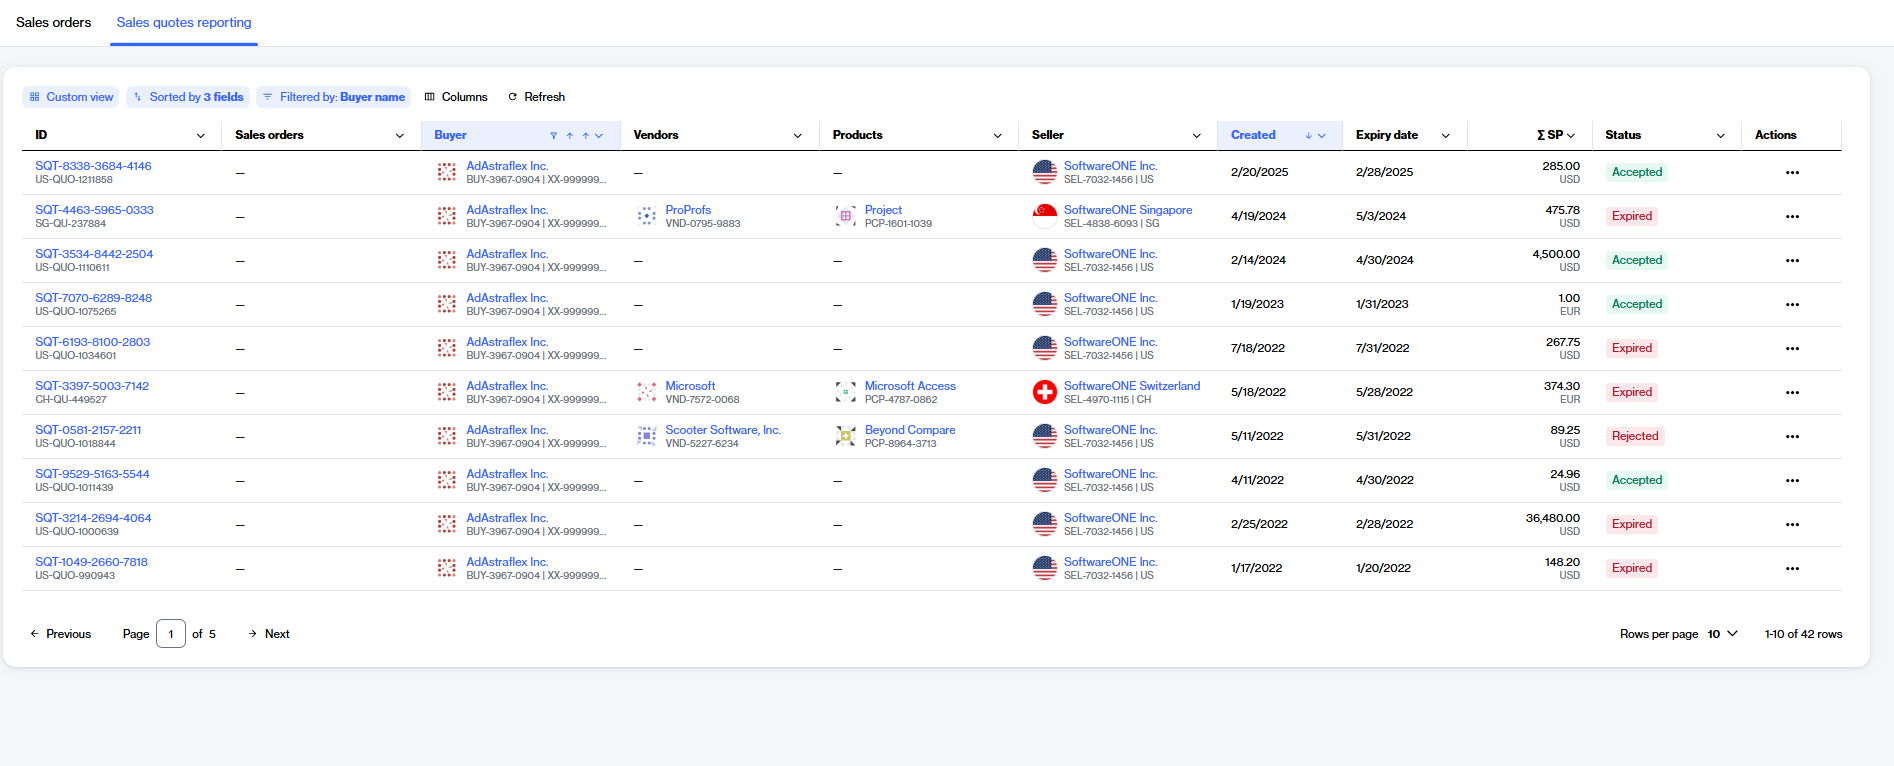
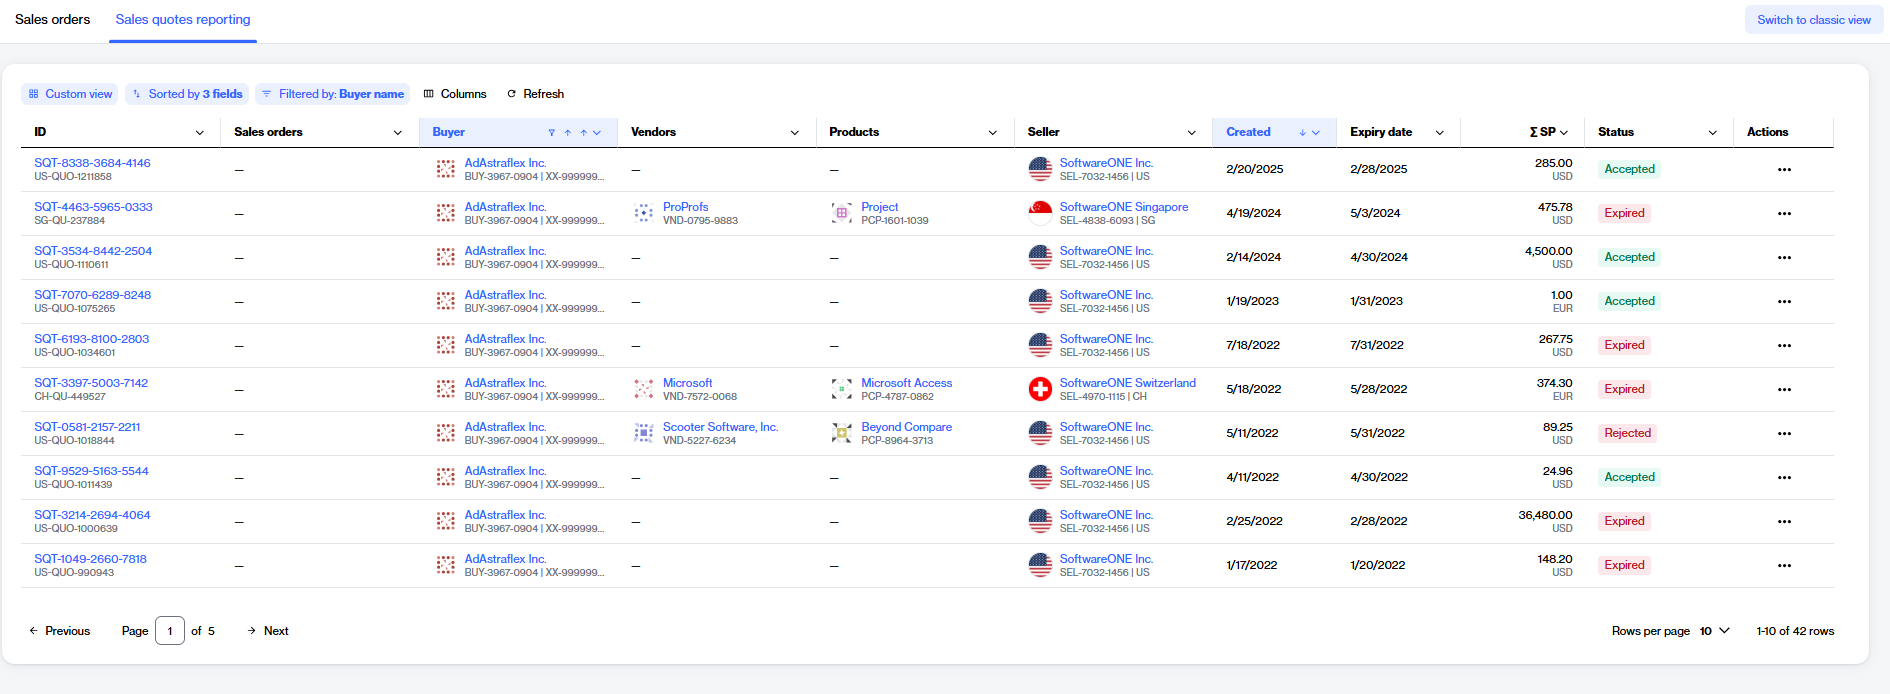
GITBOOK-383: No subject

diff --git a/modules-and-features/billing/analytics/README.md b/modules-and-features/billing/analytics/README.md
@@ -2,50 +2,36 @@
 
 The **Analytics** page in the SoftwareOne Marketplace provides detailed insights into your billing data. It pulls the actual charges from your issued invoices to help you monitor spending, forecast budgets, and proactively manage your expenditure.
 
-Analytics uses interactive charts and tables to help you understand your billed charges:
-
-* The **Analytics chart** section provides a visual and tabular view of the billing data.&#x20;
-* The **Analytics dashboard** section helps you download your data.
-
-Analytics also supports filtering and grouping options, allowing you to focus on the most relevant billed charges. You can select specific date ranges and adjust the date granularity as needed. Additionally, you can group data using predefined categories and use filters to drill down even further.&#x20;
-
-All amounts are displayed in your billing currency by default. You can use the **Currency** filter to view the amount in different currencies, depending on your preferences.
+Analytics uses interactive charts and tables to help you understand your billed charges. It supports filtering and grouping options, allowing you to focus on the most relevant billed charges. You can select a specific time period, group data using predefined categories, and use filters to drill down and focus on the most relevant information.&#x20;
 
 ### Accessing billing analytics
 
-To view your billing data, go to **Billing** > **Analytics**.&#x20;
+To navigate to the **Analytics** page, select the main menu, then choose **Billing** > **Analytics**.&#x20;
 
-<div data-with-frame="true"><figure><img src="../../../.gitbook/assets/analytics (1).png" alt=""><figcaption><p>The Analytics page within SoftwareOne Marketplace.</p></figcaption></figure></div>
+<div data-with-frame="true"><figure><img src="../../../.gitbook/assets/Analytics.png" alt=""><figcaption><p>The Analytics page within SoftwareOne Marketplace.</p></figcaption></figure></div>
 
-When you open the **Analytics** page, your billing data for the last three months is displayed. This data is pulled from your invoices and credit memos.
+The **Analytics** page contains the following areas:
 
-You can select filters in the sidebar to customize your view. Additionally, you can:&#x20;
-
-* Analyze and compare your billing spending across various dimensions, such as buyers, clients, products, vendors, and more.
-* Save your view, including filters and grouping options for easy access later.
-* Select a date range and define the level of granularity (daily, monthly, or yearly).
-* Select a currency other than your billing currency for financial reporting.
-* Export data in supported formats for offline analysis and sharing.
+* **Filters sidebar** - The sidebar allows you to customize your view by selecting a time period and granularity (daily, monthly, or yearly). You can group data across various dimensions, such as **Agreement**, **Document type**, **Entitlement**, **Product**, and more, and narrow your results by selecting filters, operators, and currency. For details, see [Customize analytics with filters](customize-analytics-with-filters.md).
+* **Analytics dashboard** - This section contains the **Export** option, which you can use to download the data in Excel format. For details, see [Export billing data](export-billing-data.md).
+* **Analytics chart** - The chart area shows a visual representation of your billing data over time. It provides a visual breakdown of your billing data based on your selected filters and grouping. When you apply a **Group by** category (such as **Vendor** or **Product**), the chart automatically displays the top 10 entities with the highest billed amounts for that category. Any remaining entities outside of the top 10 are aggregated and displayed together as a single Others category, for example, "Others / Unmatched vendor profiles".
+* **Analytics table** - The table displays your billing data in a structured format. The columns in the table update dynamically based on your chosen date granularity (for example, showing columns for 2023, 2024, 2025) and a **Total** column for quick reference.
 
 {% hint style="info" %}
-The data on the **Analytics** page is view-only. It cannot be edited.
+- When you first open the **Analytics** page, a **No chart details** message is displayed. You must apply the filters in the left sidebar and select **Show results** to view the data from your invoices and credit memos. For details, see [Customize analytics with filters](customize-analytics-with-filters.md).
+- All data on the **Analytics** page is view-only. It cannot be edited.
 {% endhint %}
 
-### Analyze your billing data <a href="#visualize-costs-in-a-chart" id="visualize-costs-in-a-chart"></a>
+### Currency selection and conversion <a href="#currency-selection-and-conversion" id="currency-selection-and-conversion"></a>
 
-The **Analytics** page offers two views to help you analyze your data. You can:
+By default, **Analytics** displays all amounts in your standard billing currency. You can use the **Currency** filter in the filters sidebar to select a different target currency for financial reporting.
 
-* Use the chart to view billing data based on your selected filters. When you select a data point on the chart, a pop-up displays detailed information for the selected time period.
[1 lines of base64/hex data omitted]
+When you select a new target currency, the platform automatically applies the relevant exchange rates to convert your billing data. When a conversion has been applied, a note appears at the bottom of the data table stating: _"An exchange rate was applied for the selected currency."_
 
 ### Related topics
 
 {% content-ref url="customize-analytics-with-filters.md" %}
 [customize-analytics-with-filters.md](customize-analytics-with-filters.md)
-{% endcontent-ref %}
-
-{% content-ref url="save-and-manage-views.md" %}
-[save-and-manage-views.md](save-and-manage-views.md)
 {% endcontent-ref %}
 
 {% content-ref url="export-billing-data.md" %}

diff --git a/help-and-support/release-notes/release-notes-v5.md b/help-and-support/release-notes/release-notes-v5.md
@@ -12,9 +12,9 @@ We are pleased to announce the latest release of SoftwareOne's Marketplace Platf
 
 Analytics is a new feature that allows you to visualize your billing data. You can access this feature from the main menu by selecting **Billing** > **Analytics**.
 
-Analytics uses interactive charts and filters to help you understand charges from your invoices and credit memos so you can monitor spending, forecast budgets, and manage your expenditure.
+Analytics uses interactive charts and filters to help you understand charges from your invoices and credit memos so you can monitor spending, forecast budgets, and manage your expenditure. &#x20;
 
-It enables you to analyze and compare your billing data across various dimensions, customize data using filters, and export data in supported formats, such as Excel. For more information, see [Analytics](../../modules-and-features/billing/analytics/).
+The feature offers robust grouping options to help you group data across dimensions, such as **Agreement**, **Item**, **Product**, and more. It provides a visual summary of your top 10 entities based on your selected grouping, and automatically combines the remaining entities under a single category called Others / Unmatched for readability. You can also export your data to Excel and choose a target currency for your financial reporting. For more information, see [Analytics](../../modules-and-features/billing/analytics/).
 
 <div data-with-frame="true"><figure><img src="../../.gitbook/assets/Billing Analytics 4.png" alt=""><figcaption><p>Monitor your billing data using Analytics.</p></figcaption></figure></div>
 
@@ -124,8 +124,8 @@ Administrators can also view the preferred language for notification emails and 
 
 We are introducing **Vendor profiles** and **Product profiles** pages in the platform to enhance discovery and create a more seamless experience in the SoftwareOne Marketplace.&#x20;
 
-* Vendor profiles are centralized marketing and informational pages for each vendor. These profiles allow you to learn about the vendors and the products they offer.
-* Product profiles are marketing-focused representations of a product or a grouping of products. They are designed to help you understand the product and start the ordering process directly from within the profile.
+* [Vendor profiles](../../modules-and-features/catalog/vendor-profiles/) are centralized marketing and informational pages for each vendor. These profiles allow you to learn about the vendors and the products they offer.
+* [Product profiles](../../modules-and-features/catalog/product-profiles/) are marketing-focused representations of a product or a grouping of products. They are designed to help you understand the product and start the ordering process directly from within the profile.
 
 You can access these pages through the **Catalog** option in the main menu.
 
@@ -149,9 +149,12 @@ Once an extension is installed, it can be viewed on the **Installations** page. 
 
 ### Procurement Management
 
-You can now view your sales orders and sales quotes directly in the Marketplace by navigating to the **Procurement** section in the main menu.
+You can now access your sales orders and sales quotes directly in the Marketplace by navigating to the **Procurement** section in the main menu.
 
-The new **Sales orders** and **Sales quotes reporting** pages provide a unified, easy-to-understand view of what has been quoted and what is currently in progress. For more information, see [Sales orders](../../modules-and-features/procurement/sales-orders/) and [Sales quotes reporting](../../modules-and-features/procurement/sales-quotes-reporting/).
+* The [Sales orders](../../modules-and-features/procurement/sales-orders/) page offers an improved, transparent way to manage your sales orders. You can narrow down your orders based on your specific criteria, select an order to view its detailed information, and download a PDF of your sales order.&#x20;
+* The [Sales quotes reporting](../../modules-and-features/procurement/sales-quotes-reporting/) page provides a unified, easy-to-understand view of what has been quoted and what is currently in progress. From this page, you can view your pending, accepted, and historical sales quotes, along with corresponding sales orders as they move through fulfilment and billing. You can also select a quote to see its detailed information and download the sales quote PDF.
+
+For former PyraCloud users, the **Sales orders** and **Sales quotes reporting** pages provide an upgraded experience. If you previously used PyraCloud for your sales orders and quotes, you can take advantage of the new interface, which includes enhanced search capabilities, PDF downloads, advanced filters, and the option to **Switch to classic view**.
 
 ### New APIs & Business Objects Reference
 

diff --git a/modules-and-features/billing/analytics/customize-analytics-with-filters.md b/modules-and-features/billing/analytics/customize-analytics-with-filters.md
@@ -2,14 +2,9 @@
 
 On the **Analytics** page, you can refine billing data using filters to focus on the information that matters most to you.&#x20;
 
-By default, **Analytics** displays billing data for the last 3 months. Using filters, you can adjust the dataset to perform targeted analysis. Filters help you:
+You can select a time period, granularity, and group data across various dimensions. The Analytics chart displays a visual summary of your top 10 entities based on your selected grouping. All remaining entities are automatically combined under a single category called Others / Unmatched to maintain a clean and readable view. You can group your data by different dimensions, including Agreement, Asset, Buyer, Client, Document type, and more.&#x20;
 
-* Analyze spending for specific vendors or products.
-* Compare data across different time periods.
-* Apply multiple filters to narrow results.
-* View billing data in a preferred currency.
-
-All billing data is displayed according to the filters you select. When you change a filter and select **Show results**, the data updates to reflect your selection.&#x20;
+When you export your data to Excel, the file will include all the data that you filtered on the screen. Additionally, you can also select a target currency for your financial reporting. The system automatically applies current exchange rates to convert your data, and a note at the bottom of the page will confirm when a currency conversion has been applied.
 
 ### Customizing analytics with filters
 
@@ -20,15 +15,18 @@ To customize the data in Analytics:
 <figure><img src="../../../.gitbook/assets/analytics (1).png" alt=""><figcaption><p>The Analytics page within SoftwareOne Marketplace.</p></figcaption></figure>
 
 2. In the **Filters** sidebar, apply the following customization as necessary:
-   1. **Date range** - Choose a date range to define the reporting period.
-   2. **Granularity** - Adjust the date granularity to enhance the data. You can choose **Daily**, **Monthly**, or **Yearly**.
+   1. **Date range** - Choose a specific period to define the reporting timeframe.
+   2. **Granularity** - Adjust how the data is grouped over time. You can choose **Daily**, **Monthly**, or **Yearly**.
       * **Daily** - Displays data for each day.
       * **Monthly** - Displays totals grouped by month.
       * **Yearly** - Displays totals grouped by year.
-   3. **Group by** - Organize data using predefined categories. For example, to group by vendor, select **Vendor** and choose all the vendors you want to include. You can only choose one category.
-   4. **Filter by** - Choose filters to narrow the results. For example, to filter by products, select **Product** and choose all the products you want to include. You can combine multiple filters for more refined results.
+   3. **Group by** - Organize data by a specific category. You can choose one primary grouping category. For example, to group by vendor, select **Vendor** and choose all the vendors you want to include.&#x20;
+   4. **Filter by** - Choose specific entities within categories. You can select multiple filters for more refined results.
    5. **Filter conditions** - Select the desired **And** or **OR** operator.
-      * **And** - If you select this operator, the results are displayed only if all filter and grouping conditions are met.
-      * **Or** - If you select this operator, only one of the filters and grouping needs to be met for the results to be displayed.
-   6. **Currency** - Select the currency in which you want to view billing values. By default, analytics uses your configured billing currency, but you can switch to another available currency if needed.
-3. Select **Show results**.  After applying filters, both the visual chart and the table reflect your customized view.
+      * **And** - If you select this operator, the results are displayed only if all conditions are met.
+      * **Or** - If you select this operator, only one condition needs to be met for the results to be displayed.
+   6. **Variable -** Select **Sale price** to view your standard billing charges.
+   7. **Currency** - Select the currency in which you want to view billing values. For more details, see [Currency selection and conversion](./#currency-selection-and-conversion).
+3. Select **Show results**.&#x20;
+
+After applying filters, both the visual chart and the table reflect your customized view. If you want to download your data, use the **Export** option. For more details, see [Export billing data](export-billing-data.md).

diff --git a/modules-and-features/billing/analytics/export-billing-data.md b/modules-and-features/billing/analytics/export-billing-data.md
@@ -1,14 +1,15 @@
 # Export billing data
 
-The **Export** option on the **Analytics** page enables you to download your billing data in Excel, CSV, and PDF formats. This allows you to share your data with others by email or other methods.
+The **Export** option on the **Analytics** page allows you to download your billing data as an Excel file, so you can share it with others by email or other methods.
 
-When you download data, the exported file includes all data currently displayed on the **Analytics** page, which is determined by the filters and grouping criteria you have applied. You can create specific views and export the data for further analysis or reporting.
+While the visual chart within **Analytics** displays only your top 10 grouped entities, the Excel file provides you with a complete, unfiltered dataset.
 
 ### Exporting billing data
 
-To export the data:
+To export your billing data:
 
-1. Navigate to the **Analytics** page.
-2. Under **Analytics dashboard**, select **Export** to download the file.
+1. Go to **Billing** > **Analytics**.
+2. In the left sidebar, apply your desired filters, then select Show **results**.
+3. Under **Analytics dashboard**, select **Export** to download the file.
 
-<div data-with-frame="true"><figure><img src="../../../.gitbook/assets/analytics.png" alt=""><figcaption><p>The Export option on the Analytics page to download data.</p></figcaption></figure></div>
+<div data-with-frame="true"><figure><img src="../../../.gitbook/assets/Analytics.png" alt=""><figcaption><p>Use the Export option to download your complete billing data.</p></figcaption></figure></div>

diff --git a/modules-and-features/procurement/sales-quotes-reporting/README.md b/modules-and-features/procurement/sales-quotes-reporting/README.md
@@ -10,7 +10,7 @@ The **Sales quotes** page is your centralized hub for monitoring all pending, ac
 
 To navigate to the **Sales quotes** page, select the main menu, then choose **Procurement** > **Sales quotes reporting**. A list of your sales quotes is displayed, as shown in the following image:
 
-<div data-with-frame="true"><figure><img src="../../../.gitbook/assets/sales-quotes-reporting.png" alt=""><figcaption><p align="center">The Sales Quotes page showing real time statuses along with expiration dates and total values.</p></figcaption></figure></div>
+<div data-with-frame="true"><figure><img src="/broken/files/G0NQlBuM8iWIrZfQoKI4" alt=""><figcaption><p align="center">The Sales Quotes page showing real time statuses along with expiration dates and total values.</p></figcaption></figure></div>
 
 On the **sales quotes reporting** page, you can view various details for each sales quote, including the quote ID, creation and expiration dates, estimated sales price, and more. You can also view the real-time status for each quote. When a quote is marked as **Accepted**, the platform works asynchronously in the background to generate the corresponding [sales order](../../inventory/orders.md).&#x20;
 

diff --git a/SUMMARY.md b/SUMMARY.md
@@ -44,8 +44,8 @@
     * [Invoice fields mapping](modules-and-features/billing/understand-your-billing-documents/invoice-fields-mapping.md)
   * [Analytics](modules-and-features/billing/analytics/README.md)
     * [Customize analytics with filters](modules-and-features/billing/analytics/customize-analytics-with-filters.md)
-    * [Save and manage views](modules-and-features/billing/analytics/save-and-manage-views.md)
     * [Export billing data](modules-and-features/billing/analytics/export-billing-data.md)
+    * [Save and manage views](modules-and-features/billing/analytics/save-and-manage-views.md)
   * [Invoices](modules-and-features/marketplace/billing/invoices/README.md)
     * [Find specific invoices using filters](modules-and-features/marketplace/billing/invoices/filter-invoices.md)
     * [View and download invoices](modules-and-features/marketplace/billing/invoices/download-invoices.md)

diff --git a/modules-and-features/catalog/vendor-profiles/README.md b/modules-and-features/catalog/vendor-profiles/README.md
@@ -2,7 +2,6 @@
 description: >-
   Access vendor profiles to learn about all vendors in the SoftwareOne
   Marketplace.
-hidden: true
 ---
 
 # Vendor Profiles
@@ -19,9 +18,7 @@ Some vendors are marked as **Featured**. These profiles represent strategic part
 
 ### Accessing vendor profiles
 
-There are two ways to access vendor profiles in the Marketplace.&#x20;
-
-You can either find a specific vendor profile using the **Search** bar in the header or view all vendor profiles on the **Catalog** > **Vendor profiles** page.
+To navigate to the **Vendor profiles** page, select the main menu, then choose **Catalog** > **Vendor profiles**.&#x20;
 
 <div data-with-frame="true"><figure><img src="../../../.gitbook/assets/vendor-profile.png" alt=""><figcaption><p>A list of all vendor profiles in the SoftwareOne Marketplace.</p></figcaption></figure></div>
 

diff --git a/modules-and-features/catalog/product-profiles/README.md b/modules-and-features/catalog/product-profiles/README.md
@@ -1,6 +1,5 @@
 ---
 description: View product profiles to learn about software products in our catalog.
-hidden: true
 ---
 
 # Product Profiles
@@ -13,9 +12,7 @@ Product profiles also contain a list of related products. For example, the **Ado
 
 ### Accessing product profiles
 
-There are two ways to access product profiles.&#x20;
-
-You can either use the **Search** bar in the header to find a specific product profile or view all profiles on the **Catalog** > **Product profiles** page.
+To navigate to the **Product profiles** page, select the main menu, then choose **Catalog** > **Product profiles**.&#x20;
 
 <div data-with-frame="true"><figure><img src="../../../.gitbook/assets/product-profile.png" alt=""><figcaption><p>A list of Product Profiles in the SoftwareOne Marketplace.</p></figcaption></figure></div>
 

diff --git a/modules-and-features/billing/analytics/save-and-manage-views.md b/modules-and-features/billing/analytics/save-and-manage-views.md
@@ -1,3 +1,7 @@
+---
+hidden: true
+---
+
 # Save and manage views
 
 In **Analytics**, you can save your view containing filters and other settings for easy access to your frequently used insights.&#x20;

diff --git a/modules-and-features/inventory/orders.md b/modules-and-features/inventory/orders.md
@@ -1,5 +1,6 @@
 ---
 description: Access your perpetual license orders.
+hidden: true
 ---
 
 # Sales Orders
